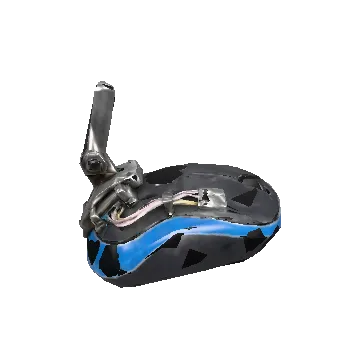
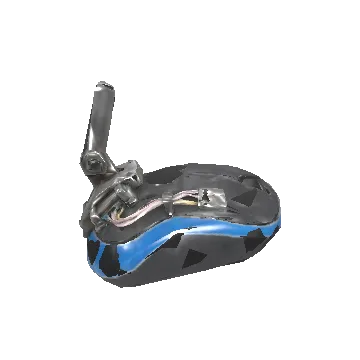
场外的 3D 都照首页示范那口锅打光：做好了、看它怎么来的、角色库卡片、组装台槽位
Elara e3832fa5：预览好看，「做好了」的 3D 发黑发灰，首页示范又亮又像预览。
- 场外用模型原来的材质（场上为看清轮廓提亮的底色和加粗的粗糙度只留给对战）
- 清晰的 RoomEnvironment 给金属反射、一盏暖色半球光，和 potview.js 一样不做色调映射
- 组装台槽位的小图渲染目标改 sRGB 编码，原来读回的是线性值，整张发暗
- 角色库卡片的静态图（data/stills）按新打光重出，淡入 3D 时不跳色
对战场地的打光和材质不动。

Changed region(s): [[0.2139, 0.3972, 0.7944, 0.825], [0.275, 0.2139, 0.3056, 0.2444]]

diff --git a/web/src/models.js b/web/src/models.js
@@ -1,5 +1,6 @@
 import * as THREE from 'three';
 import {GLTFLoader} from 'three/addons/loaders/GLTFLoader.js';
+import {RoomEnvironment} from 'three/addons/environments/RoomEnvironment.js';
 
 // The phone-sized GLBs in data/models (catalog `glb` paths are relative to the repo root); which ones, model-files.js.
 // data/lux3d holds the 17–20 MB originals and is deliberately not bundled.
@@ -46,11 +47,40 @@ function cardPose(item) {
 
 const thumbnails = new Map();
 
+// How a model looks off the arena (Elara e3832fa5: 做好了 was dark and grey beside the styled picture, the opening page's
+// pot bright and like it): that pot viewer's light (potview.js) — the model's own materials, a sharp room to reflect,
+// one warm sky light, no tone mapping — for 做好了, 看它怎么来的, the 角色库's cards and the 组装台's slots. The arena keeps
+// its darker light and the toy-look materials, which the fight is read by.
+const LOOK_SKY = [0xffefda, 0x687a77, 1.3];
+export function lookEnvironment(renderer) {
+  const pmrem = new THREE.PMREMGenerator(renderer), room = new RoomEnvironment();
+  const texture = pmrem.fromScene(room).texture;
+  room.dispose(); pmrem.dispose();
+  return texture;
+}
+const lookLight = () => new THREE.HemisphereLight(...LOOK_SKY);
+// One copy of each material as it was made, shared by every view.
+const asMade = new WeakMap();
+function madeLook(obj) {
+  const made = m => {
+    if (!m.userData.made) return m;
+    if (!asMade.has(m)) {
+      const c = m.clone(), {color, roughness} = m.userData.made;
+      if (color) c.color.fromArray(color);
+      if (roughness !== undefined) c.roughness = roughness;
+      asMade.set(m, c);
+    }
+    return asMade.get(m);
+  };
+  obj.traverse(o => { if (o.isMesh) o.material = Array.isArray(o.material) ? o.material.map(made) : made(o.material); });
+  return obj;
+}
+
 /** Render loaded equipment once using the existing renderer, without another WebGL context. */
 export function itemThumbnail(itemId, renderer, environment) {
   if (thumbnails.has(itemId)) return thumbnails.get(itemId);
   if (!cache.has(itemId)) return null;
-  const object = cache.get(itemId).clone(true), scene = new THREE.Scene();
+  const object = madeLook(cache.get(itemId).clone(true)), scene = new THREE.Scene();
   const bounds = new THREE.Box3().setFromObject(object), center = bounds.getCenter(new THREE.Vector3());
   const size = bounds.getSize(new THREE.Vector3()), span = size.length();
   const camera = new THREE.PerspectiveCamera(35, 1.6, span / 100, span * 10);
@@ -76,12 +106,9 @@ export function itemThumbnail(itemId, renderer, environment) {
   camera.position.copy(center).addScaledVector(direction, distance);
   camera.updateMatrixWorld(true);
   scene.environment = environment;
-  scene.environmentIntensity = 0.65;
-  scene.add(object, new THREE.HemisphereLight('#fff5eb', '#344d42', 1));
-  const light = new THREE.DirectionalLight('#fff8ea', 1.6);
-  light.position.copy(camera.position);
-  scene.add(light);
-  const target = new THREE.WebGLRenderTarget(256, 160);
+  scene.add(object, lookLight());
+  // Encoded as on screen: a render target is left linear otherwise, and the picture read back from it comes out dark.
+  const target = new THREE.WebGLRenderTarget(256, 160, {colorSpace: THREE.SRGBColorSpace});
   const oldTarget = renderer.getRenderTarget(), oldColor = renderer.getClearColor(new THREE.Color());
   const oldAlpha = renderer.getClearAlpha(), viewport = renderer.getViewport(new THREE.Vector4());
   try {
@@ -135,8 +162,10 @@ async function loadOne(item) {
     gltf.scene.traverse(o => {
       if (!o.isMesh) return;
       const mats = Array.isArray(o.material) ? o.material : [o.material];
-      // Toy look: lift near-black albedo so silhouettes stay readable on the dark stage.
+      // Toy look: lift near-black albedo so silhouettes stay readable on the dark stage. The model as it was made is
+      // kept for the views off the arena (madeLook).
       for (const m of mats) {
+        m.userData.made = {color: m.color?.toArray(), roughness: m.roughness};
         if (m.color) m.color.setRGB(0.05 + m.color.r * 0.95, 0.05 + m.color.g * 0.95, 0.055 + m.color.b * 0.95);
         if ('roughness' in m) m.roughness = Math.max(m.roughness, 0.45);
       }
@@ -191,17 +220,10 @@ export function turnRig(itemId, environment, zoom = 1) {
   const src = cache.get(itemId);
   if (!src) return null;
   const scene = new THREE.Scene();
+  // The opening page's light (lookEnvironment above); livecards.js draws it without the stage's tone mapping.
   scene.environment = environment ?? null;
-  // Lit brighter than the stage (Elara b32bfd9a ③: dark and dirty beside the styled picture it fades in over): a
-  // lighter sky and ground, and a soft light from the camera's side so the front the card shows is never in shade.
-  // livecards.js draws it with TURN_TONE, not the stage's ACES, so its colours stay those of the picture.
-  scene.add(new THREE.HemisphereLight(0xf4f6ff, 0x5d5a55, 1.5));
-  const keyLight = new THREE.DirectionalLight(0xffffff, 2.0);
-  keyLight.position.set(2, 3, 2.5);
-  const frontLight = new THREE.DirectionalLight(0xfff7ee, 1.3);
-  frontLight.position.set(-0.4, 0.5, 1);
-  scene.add(keyLight, frontLight);
-  const obj = src.clone(true), spin = new THREE.Group(), {pose, yaw, swing} = poses.get(itemId);
+  scene.add(lookLight());
+  const obj = madeLook(src.clone(true)), spin = new THREE.Group(), {pose, yaw, swing} = poses.get(itemId);
   obj.applyMatrix4(pose);
   spin.add(obj);
   scene.add(spin);

diff --git a/web/src/main.js b/web/src/main.js
@@ -2,7 +2,7 @@ import * as THREE from 'three';
 import {loadCatalog, registerItems} from '../../sim/index.js';
 import {simulateV3, createV3Match, loadV3Rules, mountExtents, openingDistance, warmEngine, POSITION_COMBAT_RULES, PLANAR_JUDGE_COMBAT_OPTIONS, MATERIAL_JUDGE_COMBAT_OPTIONS, PVP_COMBAT_OPTIONS, COUNTER_CUE_LIT} from '../../sim/v3.js';
 import ladderJson from '../../data/foes.json';
-import {loadModels, prefetchModels, pictureUrl, stillUrl, outlinePath, itemThumbnail, setFileSource} from './models.js';
+import {loadModels, prefetchModels, pictureUrl, stillUrl, outlinePath, itemThumbnail, setFileSource, lookEnvironment} from './models.js';
 import {LiveTurns} from './livecards.js';
 import {GRADES, STATS, ratingOf, byGrade} from './rating.js';
 import {Stage, TEAM, CORE_TRAVEL, CORE_RISE, CAM} from './stage.js';
@@ -227,7 +227,9 @@ async function main() {
   // A broken piece's slot goes dark with a crack across it (terminal.css .newfeel); ?feel=old keeps its red 碎 slot.
   el.hud.classList.toggle('newfeel', !oldFx);
   stage.jolts = !oldFx;
-  const turns = new LiveTurns(stage.renderer, stage.scene.environment);
+  // Off the arena (cards, 做好了, the 组装台's slots) a model is lit as on the opening page, not as in the fight.
+  const lookEnv = lookEnvironment(stage.renderer);
+  const turns = new LiveTurns(stage.renderer, lookEnv);
   const overlay = new Overlay(stage, el);
 
   const mode = q.get('mode') === 'B' ? 'B' : 'A';
@@ -456,7 +458,7 @@ async function main() {
       const thumb = slot.querySelector('.module-thumb');
       thumb.dataset.modelId = part.item;
       thumb.dataset.modelPath = byId.get(part.item).glb;
-      const url = itemThumbnail(part.item, stage.renderer, stage.scene.environment);
+      const url = itemThumbnail(part.item, stage.renderer, lookEnv);
       thumb.hidden = !url;
       if (url) { thumb.src = url; thumb.alt = NAMES[part.item]; }
       for (const b of slot.querySelectorAll('[data-orient]')) b.setAttribute('aria-checked', String(b.dataset.orient === part.orient));

diff --git a/web/src/livecards.js b/web/src/livecards.js
@@ -20,9 +20,9 @@ const TURN = 6; // seconds per turn, as the strips had
 const angle = (rig, turns) => rig.swing ? rig.swing * Math.cos(turns * Math.PI * 2) : turns * Math.PI * 2;
 const FADE = 0.4; // seconds the model takes to fade in over its still (style.css); it holds the still's angle meanwhile
 const reduced = matchMedia('(prefers-reduced-motion: reduce)');
-// The turntables' tone mapping: Khronos PBR Neutral keeps a model's hues and brightness where the stage's ACES greys and
-// darkens them (Elara b32bfd9a ③). Set only while one is drawn; the stage keeps its own.
-const TURN_TONE = {toneMapping: THREE.NeutralToneMapping, toneMappingExposure: 0.85};
+// The turntables draw as the opening page's pot does, with no tone mapping: the stage's ACES greys and darkens a model's
+// colours (Elara b32bfd9a ③, e3832fa5). Set only while one is drawn; the stage keeps its own.
+const TURN_TONE = {toneMapping: THREE.NoToneMapping, toneMappingExposure: 1};
 // A finger dragged across a view turns the model: a full width is a little over a half turn. Up and down still scroll
 // the page (touch-action: pan-y in style.css).
 function dragTurn(v) {
